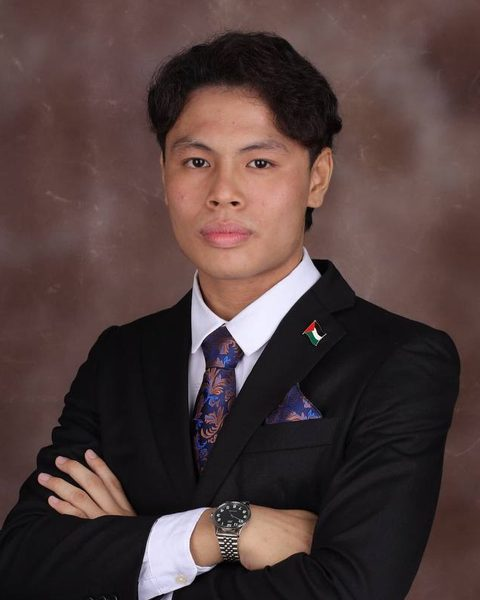
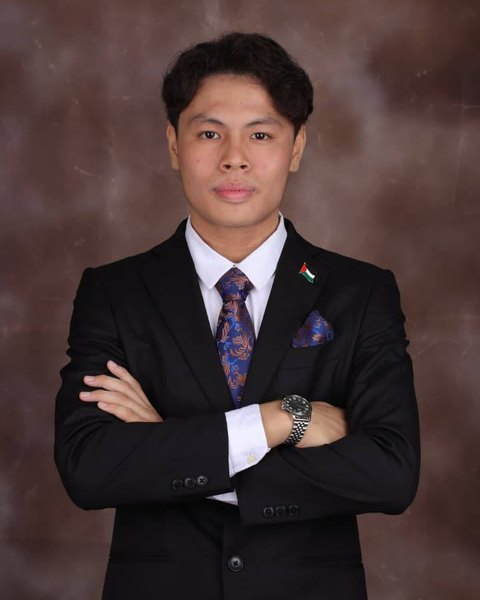
Pengasas: gambar baharu (penuh, tidak terpotong)
Claude-Session: https://claude.ai/code/session_01PCcbTNUCojpWqsuGBzTDoG

diff --git a/sw.js b/sw.js
@@ -1,5 +1,5 @@
 /* Service worker: simpan app shell untuk kegunaan luar talian */
-const CACHE = 'bijak-labur-v23';
+const CACHE = 'bijak-labur-v24';
 const SHELL = ['./', 'index.html', 'css/style.css', 'css/langit.css', 'css/ibadah.css', 'css/belajar-visual.css', 'css/fiqh.css', 'css/pustaka.css', 'css/suara.css', 'css/jadual.css', 'js/ibadah-data.js', 'js/ibadah.js', 'js/fiqh-data.js', 'js/fiqh.js', 'fonts/Geist-Variable.woff2', 'js/app.js', 'js/suara.js', 'js/learn-visuals.js', 'js/learn.js', 'js/market.js', 'js/solat.js', 'js/checker.js', 'js/premium.js', 'js/pustaka-data.js', 'js/pustaka.js', 'js/pro.js', 'js/pro-invest.js', 'js/pro-study.js', 'js/jadual.js', 'js/vendor/lightweight-charts.js',
   'manifest.webmanifest', 'privacy.html', 'terma.html', 'terma-app.html', 'icons/icon.svg', 'icons/icon-192.png', 'icons/icon-512.png', 'icons/icon-180.png'];
 
